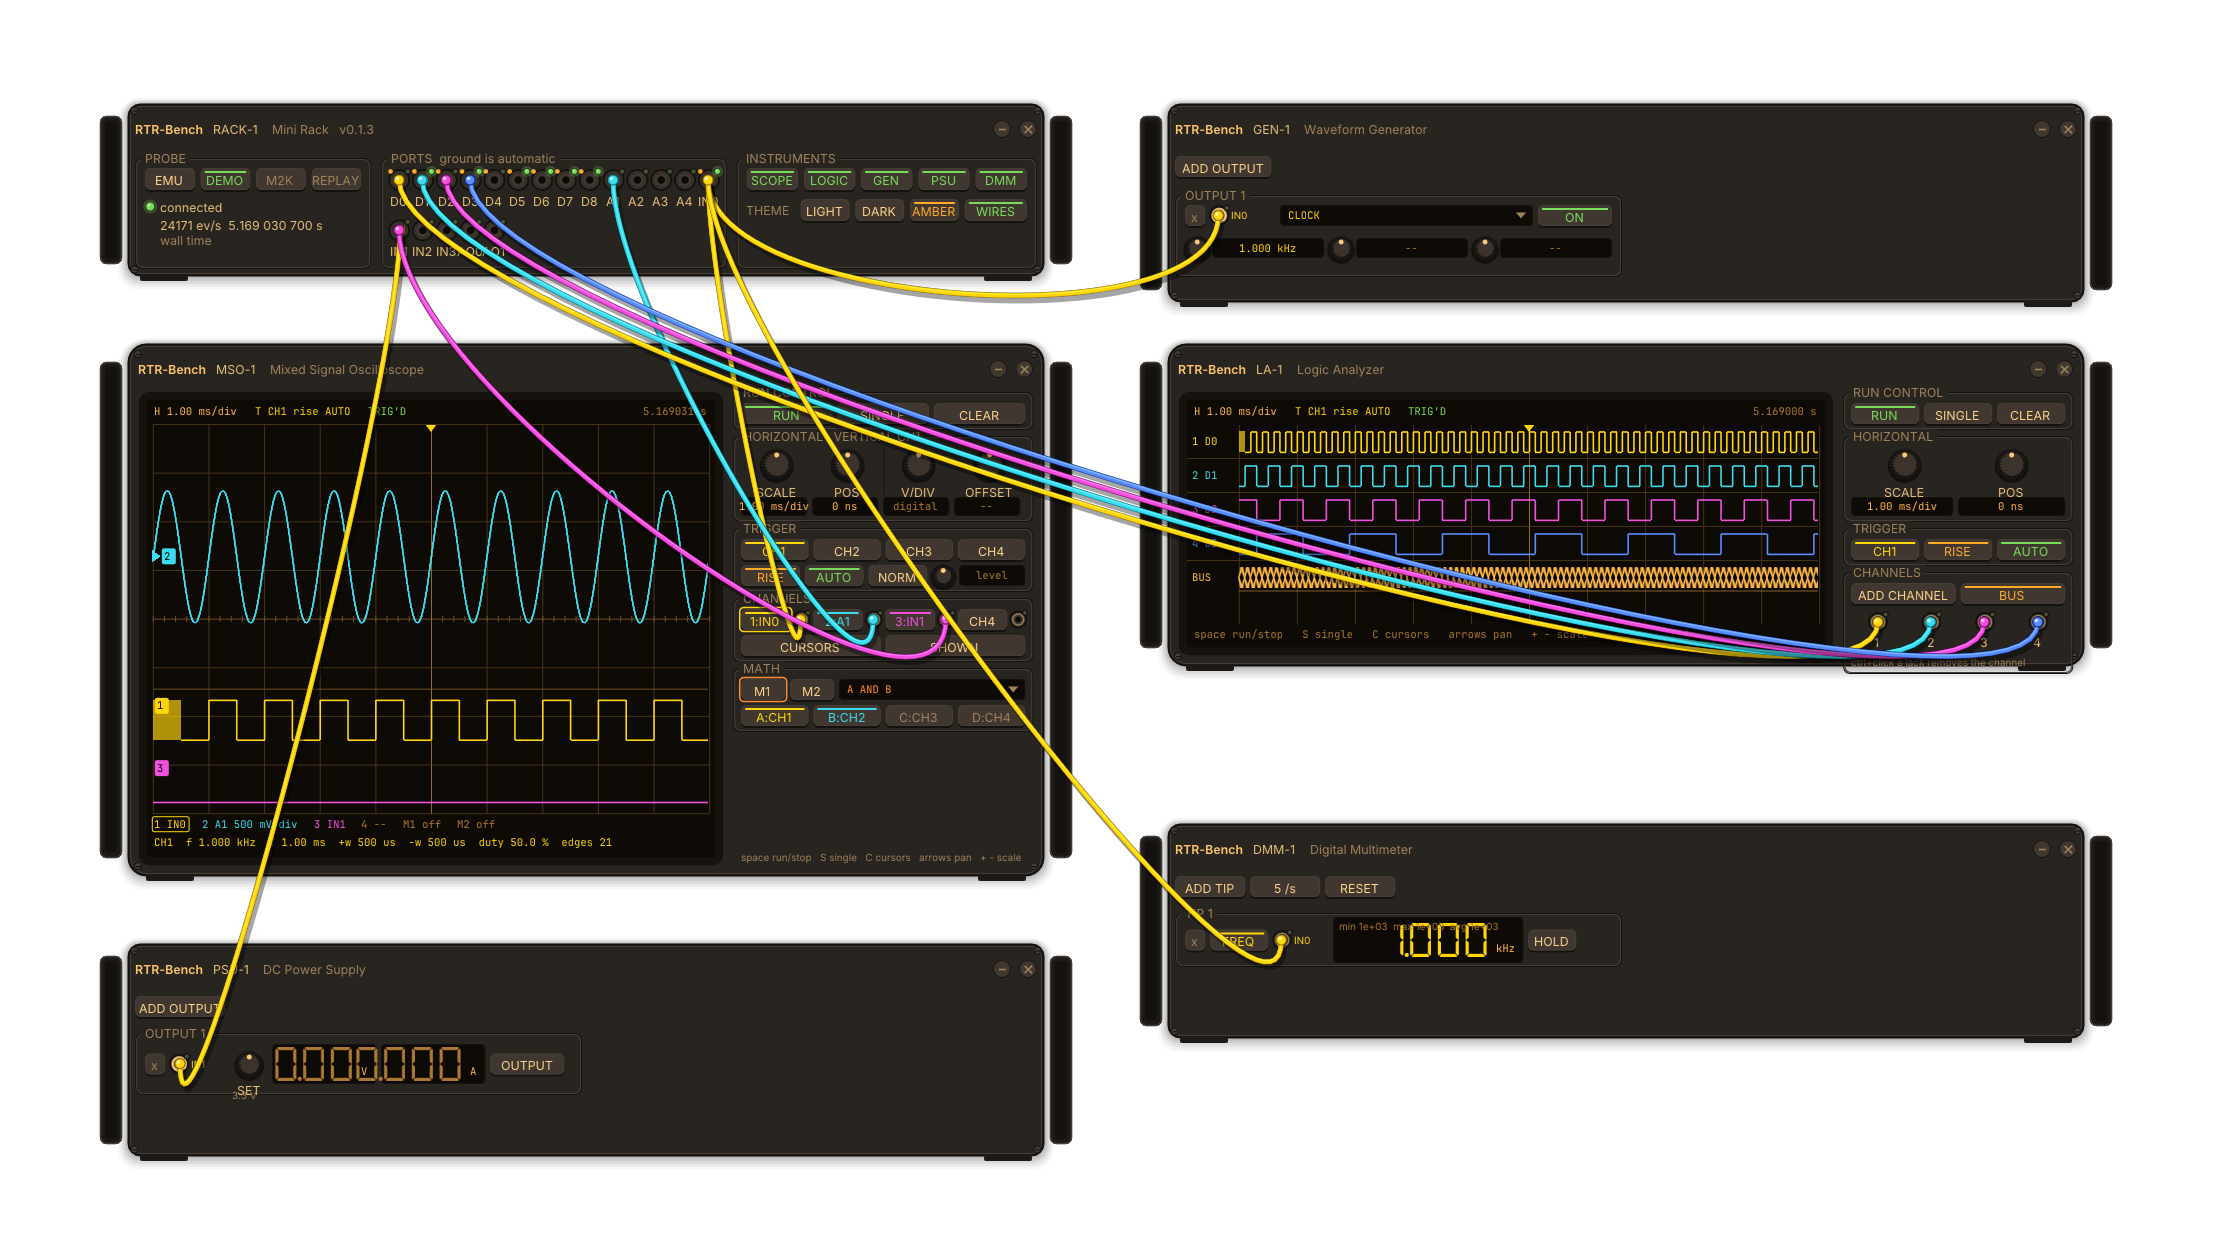
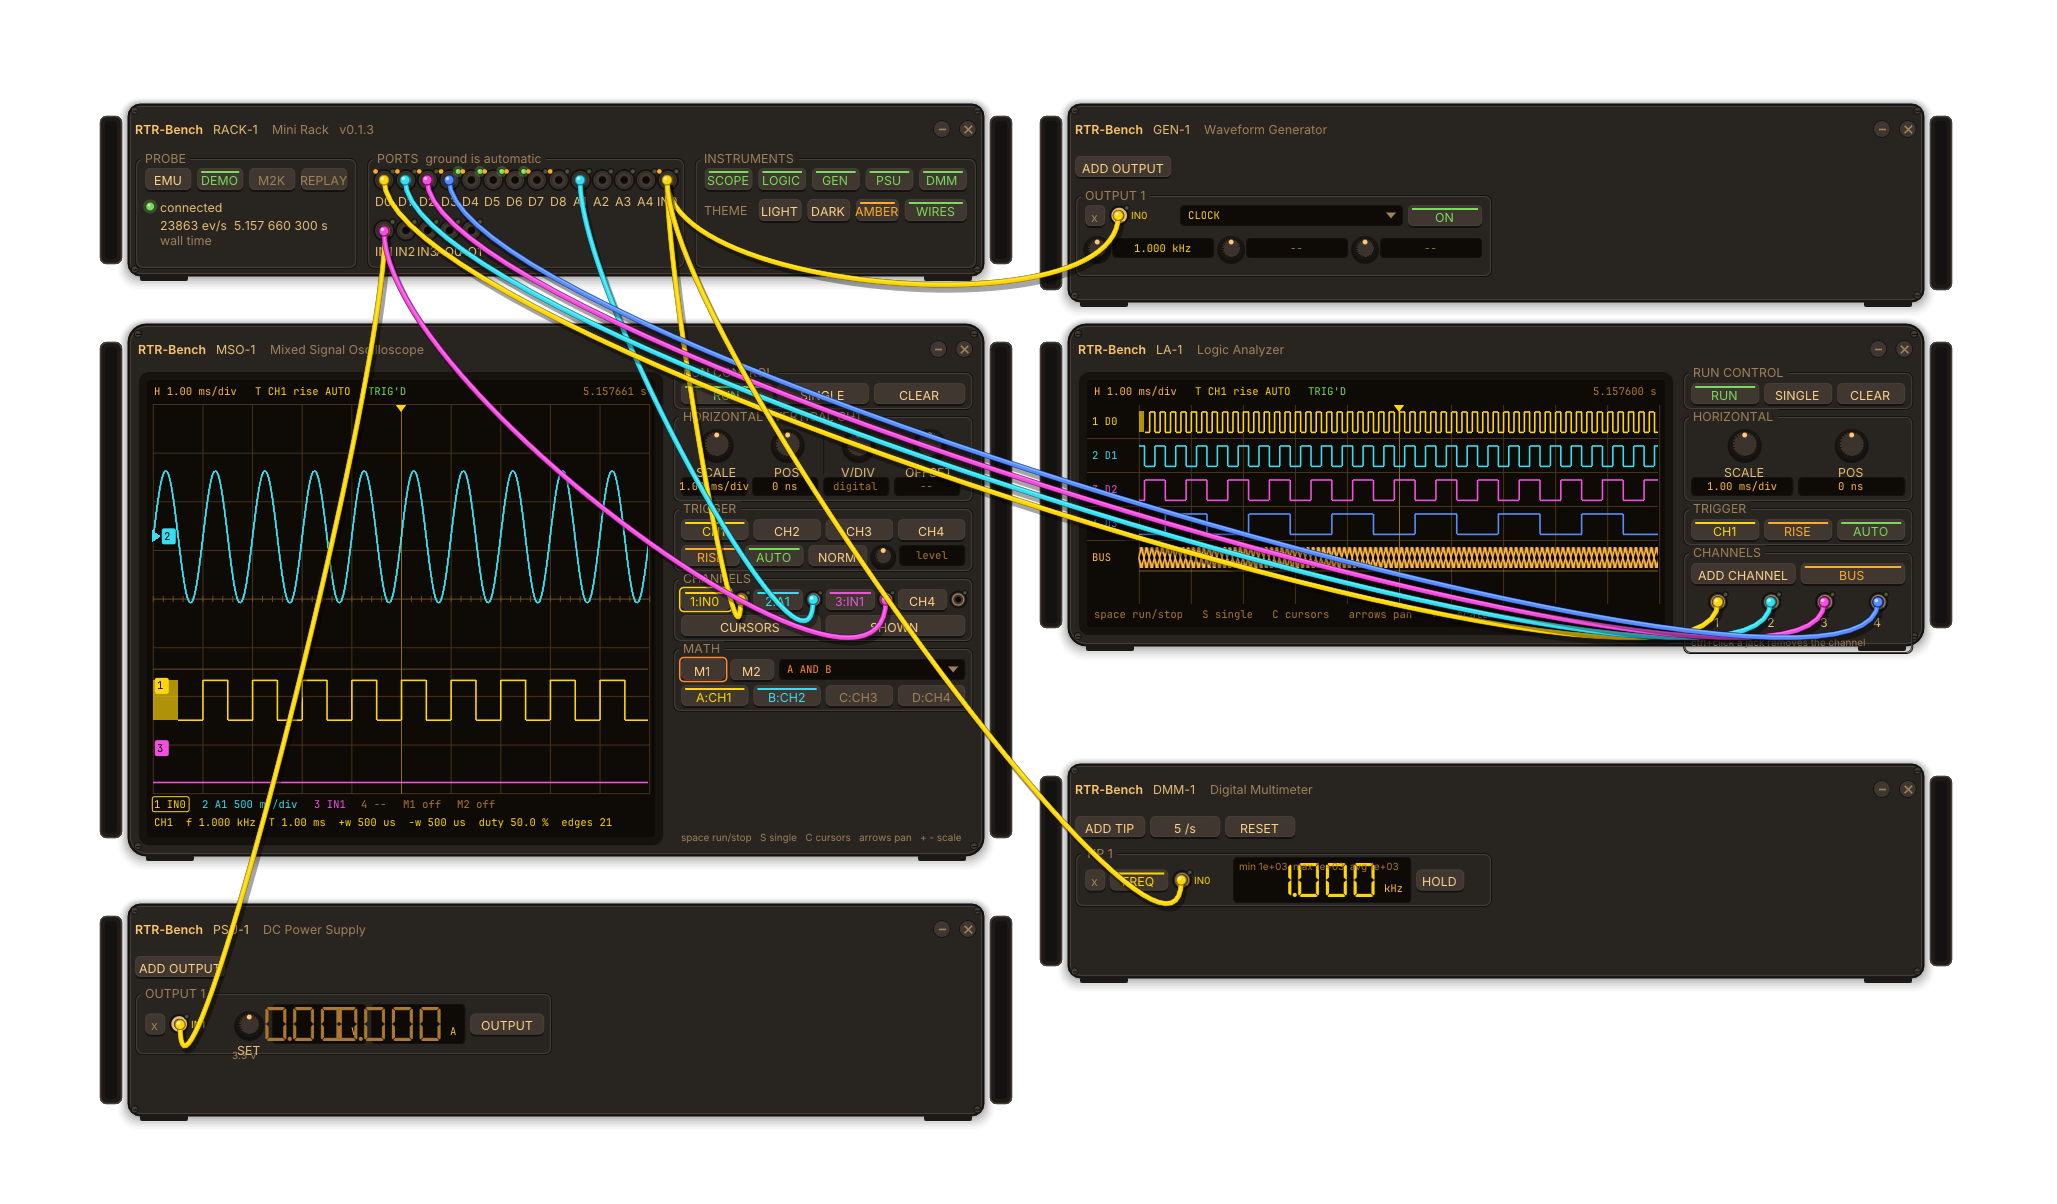
Every window 940 px wide: two side by side on a Full HD screen
Rack, oscilloscope, logic analyzer, generator, supply and multimeter at
940 px (two columns plus margins in 1920); rack groups, supply displays and
multimeter display tightened accordingly. Screenshots regenerated in the
two-column layout.

Changed region(s): [[0.0311, 0.0615, 0.9645, 0.9527], [0.9334, 0.0922, 0.9645, 0.2458]]

diff --git a/src/app/app.cpp b/src/app/app.cpp
@@ -138,7 +138,7 @@ void App::open_rack()
 {
     ui::WindowSpec spec;
     spec.title = "RTR-Bench Rack";
-    spec.width = 1000;
+    spec.width = 940;
     spec.height = 200;
     spec.x = rack_x_;
     spec.y = rack_y_;
@@ -239,31 +239,31 @@ void App::create_instrument(Instrument kind, int instance, int x, int y)
     case Instrument::Scope:
         instrument = std::make_unique<Scope>(*this);
         spec.title = "RTR-Bench Oscilloscope";
-        spec.width = 1000;
+        spec.width = 940;
         spec.height = 560;
         break;
     case Instrument::Logic:
         instrument = std::make_unique<LogicAnalyzer>(*this);
         spec.title = "RTR-Bench Logic Analyzer";
-        spec.width = 1000;
+        spec.width = 940;
         spec.height = 420;
         break;
     case Instrument::Generator:
         instrument = std::make_unique<Generator>(*this);
         spec.title = "RTR-Bench Generator";
-        spec.width = 1000;
+        spec.width = 940;
         spec.height = 220;
         break;
     case Instrument::Supply:
         instrument = std::make_unique<Supply>(*this);
         spec.title = "RTR-Bench Power Supply";
-        spec.width = 1000;
+        spec.width = 940;
         spec.height = 220;
         break;
     case Instrument::Multimeter:
         instrument = std::make_unique<Multimeter>(*this);
         spec.title = "RTR-Bench Multimeter";
-        spec.width = 1000;
+        spec.width = 940;
         spec.height = 230;
         break;
     }

diff --git a/src/app/rack.cpp b/src/app/rack.cpp
@@ -87,7 +87,7 @@ void Rack::draw(ui::Window &window)
 
     // ---- PROBE: keys, then state and address, then rate and clock ---------
     ImVec2 probe_min(frame.panel_min.x, top);
-    ImVec2 probe_max(frame.panel_min.x + 236.0f * s, bottom);
+    ImVec2 probe_max(frame.panel_min.x + 222.0f * s, bottom);
     ui::group_frame(probe_min, probe_max, "PROBE", s);
     float x = probe_min.x + 10.0f * s;
     float y = probe_min.y + 10.0f * s;
@@ -132,7 +132,7 @@ void Rack::draw(ui::Window &window)
     }
 
     // ---- INSTRUMENTS: one row of keys, then the theme row ----------------
-    const float inst_w = 300.0f * s;
+    const float inst_w = 282.0f * s;
     ImVec2 inst_min(frame.panel_max.x - inst_w, top);
     ImVec2 inst_max(frame.panel_max.x, bottom);
     ui::group_frame(inst_min, inst_max, "INSTRUMENTS", s);

diff --git a/src/instruments/supply/supply.cpp b/src/instruments/supply/supply.cpp
@@ -206,8 +206,8 @@ void Supply::draw(ui::Window &window)
         // What the target sees: on a logic target the level the set voltage means.
         float shown = !o.on ? 0.0f : (analog_target ? o.volts : (o.volts >= logic_threshold ? 3.3f : 0.0f));
         std::snprintf(volts, sizeof(volts), "%.2f", static_cast<double>(shown));
-        display(volts, "V", o.on ? colour : t.readout_dim, 104.0f * s);
-        display("0.000", "A", o.on ? colour : t.readout_dim, 104.0f * s);
+        display(volts, "V", o.on ? colour : t.readout_dim, 94.0f * s);
+        display("0.000", "A", o.on ? colour : t.readout_dim, 94.0f * s);
         // The set voltage, small, under the SET knob.
         char set_text[24];
         std::snprintf(set_text, sizeof(set_text), "%.1f V", static_cast<double>(o.volts));

diff --git a/src/instruments/dmm/dmm.cpp b/src/instruments/dmm/dmm.cpp
@@ -382,7 +382,7 @@ void Multimeter::draw(ui::Window &window)
                       tip.port >= 0 ? colour : t.label_dim, port_name.c_str());
         rx += 60.0f * s;
         // The display: a dark window with the seven-segment value and the unit.
-        float disp_w = 190.0f * s;
+        float disp_w = 178.0f * s;
         ImVec2 dmin(rx, y + 2.0f * s);
         ImVec2 dmax(rx + disp_w, y + row_h - 2.0f * s);
         draw->AddRectFilled(dmin, dmax, t.screen, 4.0f * s);
